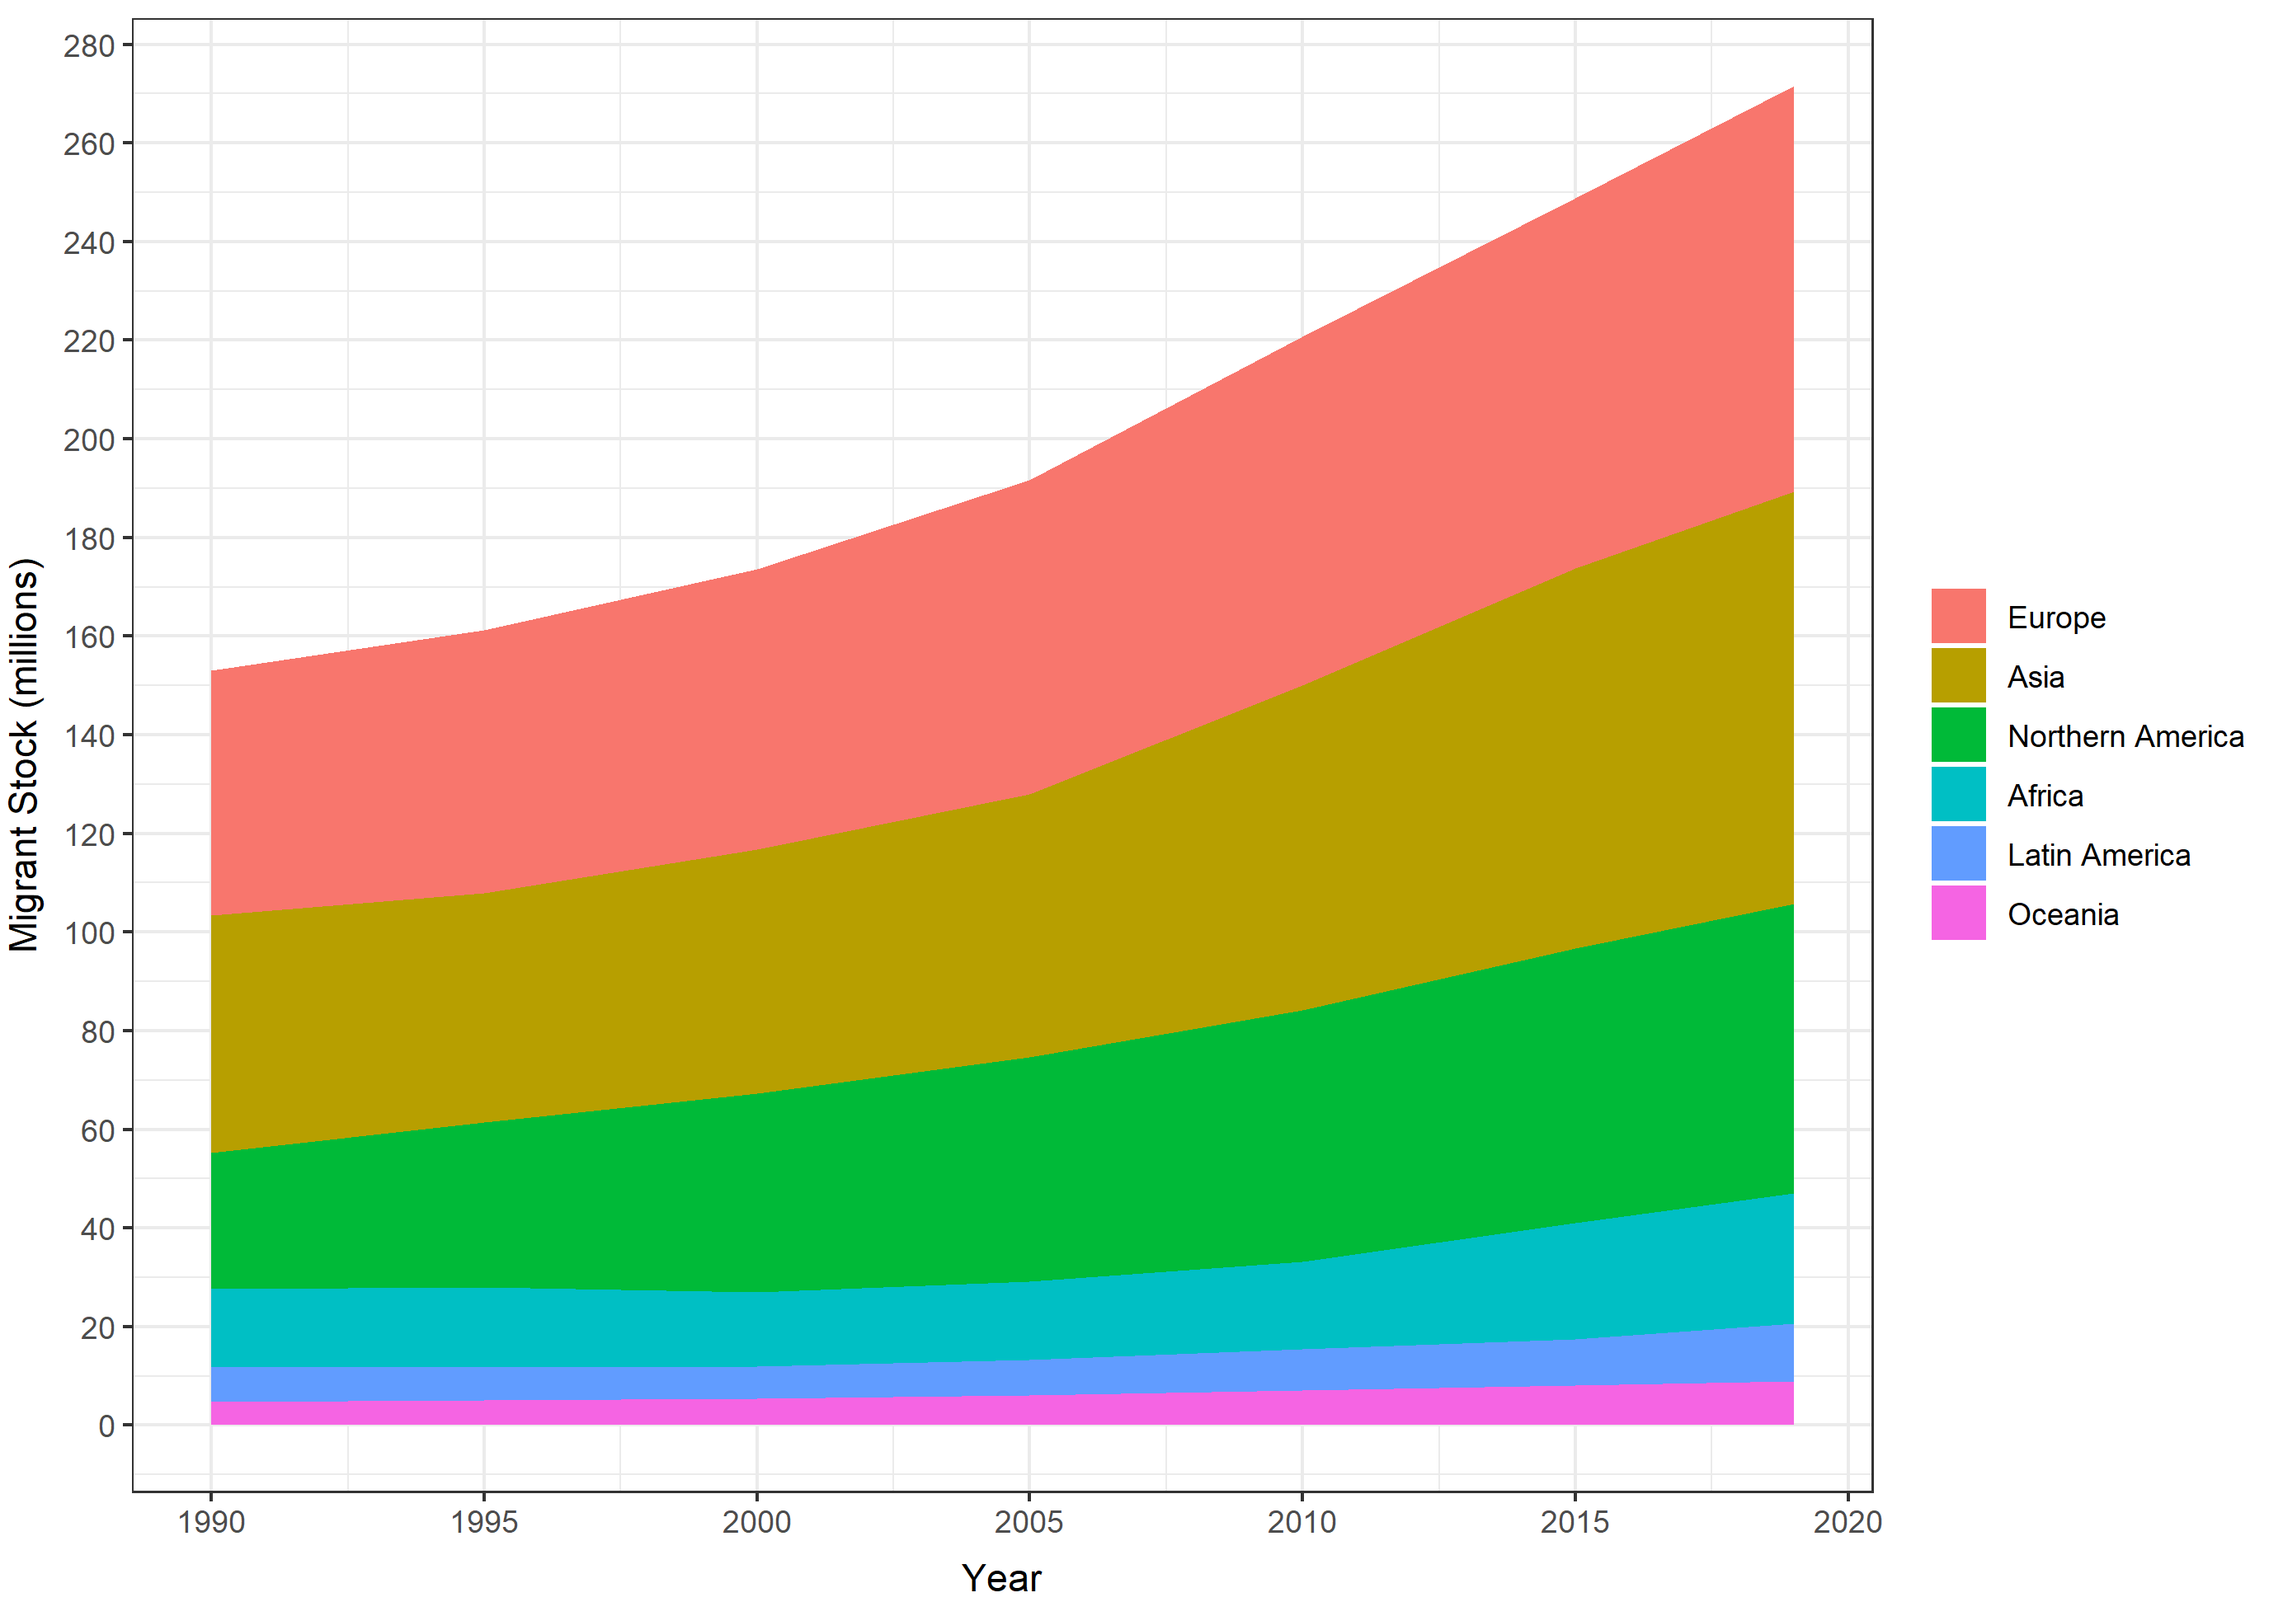
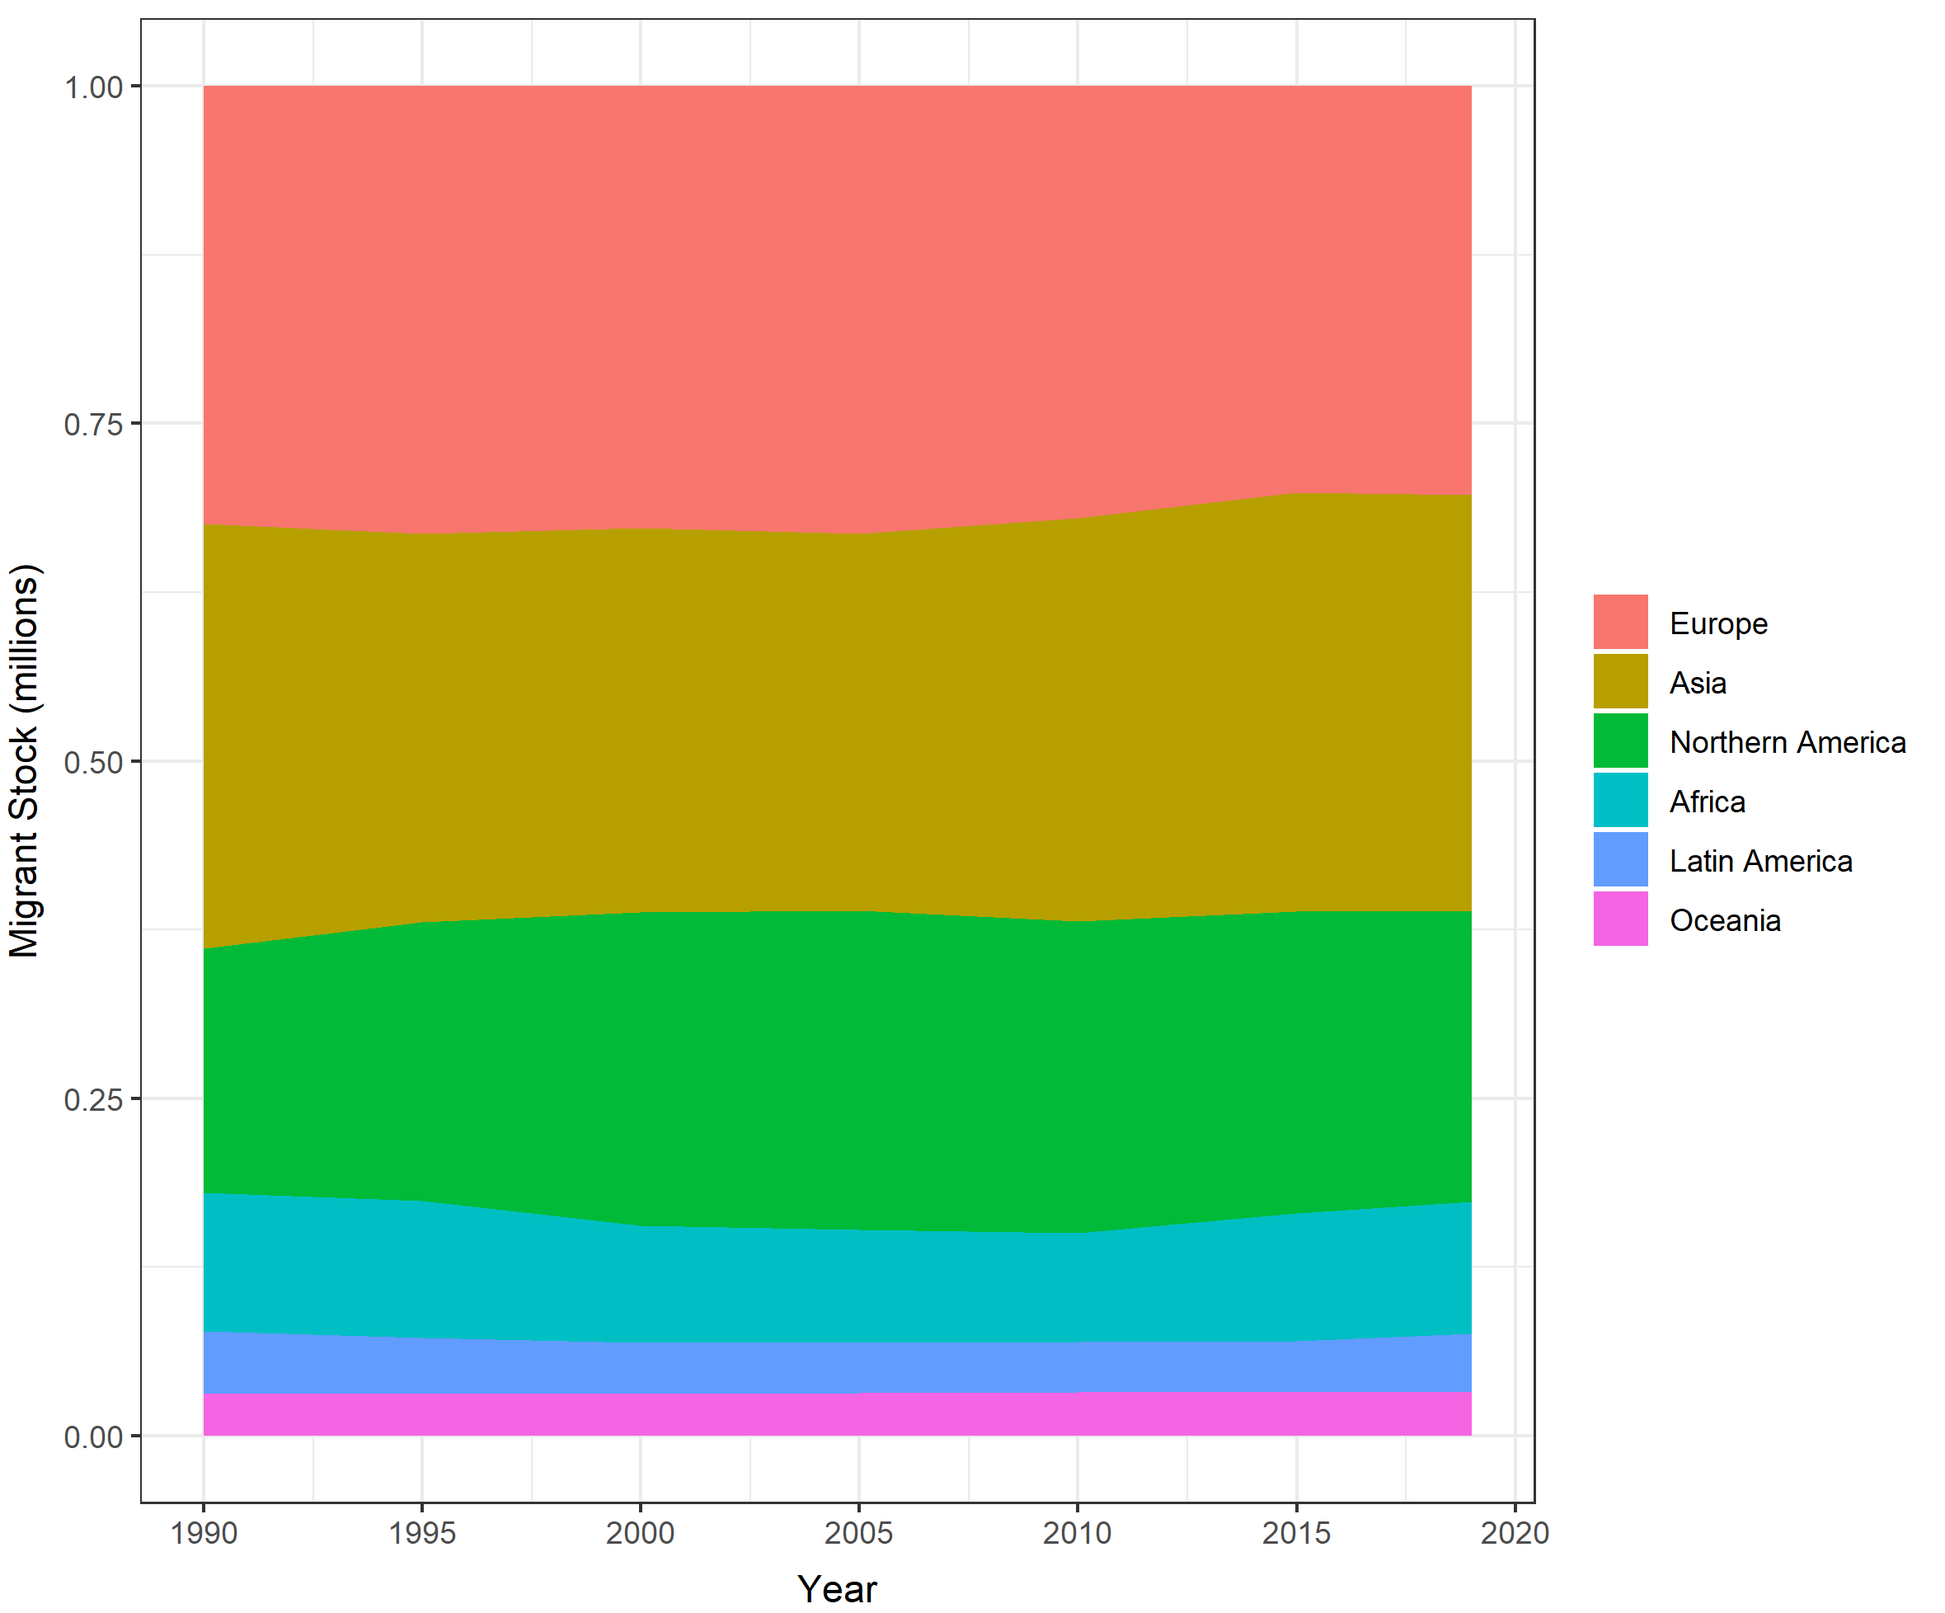
adding analyses in percentage of population

diff --git a/unfpa.md b/unfpa.md
@@ -33,6 +33,18 @@ International Migrant Stocks 1990-2019
 
 ![](unfpa_files/figure-gfm/7-1.png)<!-- -->
 
+## In percent of population (Select European Countries)
+
+![](unfpa_files/figure-gfm/9-1.png)<!-- -->
+
+## In percent of population (2019, top 50)
+
+![](unfpa_files/figure-gfm/10-1.png)<!-- -->
+
+## In percent of population (2019, bottom 50)
+
+![](unfpa_files/figure-gfm/11-1.png)<!-- -->
+
 Source: United Nations, Department of Economic and Social Affairs.
 Population Division (2019). International Migrant Stock 2019 (United
 Nations database, POP/DB/MIG/Stock/Rev.2019)
